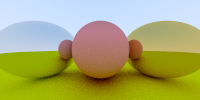
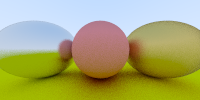
Chapter 8: Metal

diff --git a/Raytracing/main.cpp b/Raytracing/main.cpp
@@ -48,8 +48,8 @@ int main()
 	hitable* list[num_spheres];
 	list[0] = new sphere(vec3( 0.0f,    0.0f, -1.0f),   0.5f, new lambertian(vec3(0.8f, 0.3f, 0.3f)));
 	list[1] = new sphere(vec3( 0.0f, -100.5f, -1.0f), 100.0f, new lambertian(vec3(0.8f, 0.8f, 0.0f)));
-	list[2] = new sphere(vec3( 1.0f,    0.0f, -1.0f),   0.5f,      new metal(vec3(0.8f, 0.6f, 0.2f)));
-	list[3] = new sphere(vec3(-1.0f,    0.0f, -1.0f),   0.5f,      new metal(vec3(0.8f, 0.8f, 0.8f)));
+	list[2] = new sphere(vec3( 1.0f,    0.0f, -1.0f),   0.5f,      new metal(vec3(0.8f, 0.6f, 0.2f), 1.0f));
+	list[3] = new sphere(vec3(-1.0f,    0.0f, -1.0f),   0.5f,      new metal(vec3(0.8f, 0.8f, 0.8f), 0.3f));
 
 	hitable* world = new hitable_list(list, num_spheres);
 	camera cam;

diff --git a/Raytracing/metal.h b/Raytracing/metal.h
@@ -11,15 +11,22 @@ class metal : public material
 {
 private:
 	vec3 albedo;
+	float fuzz;
 
 public:
-	metal(const vec3& a) : albedo(a) {}
+	metal(const vec3& a, float f) : albedo(a)
+	{
+		if (f < 1.0f)
+			fuzz = f;
+		else
+			fuzz = 1.0f;
+	}
 
 	virtual bool scatter(const ray& r_in, const hit_record& rec, vec3& attenuation, ray& scattered) const
 	{
 		vec3 reflected = reflect(unit_vector(r_in.direction()), rec.normal);
-		scattered = ray(rec.p, reflected);
+		scattered = ray(rec.p, reflected + fuzz*random_in_unit_sphere());
 		attenuation = albedo;
-		return dot(scattered.direction(), rec.normal) > 0;
+		return dot(scattered.direction(), rec.normal) > 0.0f;
 	}
 };

diff --git a/Raytracing/sphere.h b/Raytracing/sphere.h
@@ -26,7 +26,7 @@ bool sphere::hit(const ray& r, float t_min, float t_max, hit_record& rec) const
 	float discriminant = b * b - a * c;
 	if (discriminant > 0.0f)
 	{
-		float temp = (-b - sqrt(b * b - a * c)) / a;
+		float temp = (-b - sqrt(discriminant)) / a;
 		if (temp < t_max && temp > t_min)
 		{
 			rec.t = temp;
@@ -35,7 +35,7 @@ bool sphere::hit(const ray& r, float t_min, float t_max, hit_record& rec) const
 			rec.mat_ptr = mat_ptr;
 			return true;
 		}
-		temp = (-b + sqrt(b * b - a * c)) / a;
+		temp = (-b + sqrt(discriminant)) / a;
 		if (temp < t_max && temp > t_min)
 		{
 			rec.t = temp;

diff --git a/Raytracing/lambertian.h b/Raytracing/lambertian.h
@@ -1,17 +1,6 @@
 #pragma once
 
 #include "material.h"
-#include "util.h"
-
-vec3 random_in_unit_sphere()
-{
-	vec3 p;
-	do
-	{
-		p = vec3(random(), random(), random()) - vec3(0.5f, 0.5f, 0.5f);
-	} while (p.squared_length() >= 1.0f);
-	return p;
-}
 
 class lambertian : public material
 {

diff --git a/Raytracing/material.h b/Raytracing/material.h
@@ -1,6 +1,17 @@
 #pragma once
 
 #include "hitable.h"
+#include "util.h"
+
+vec3 random_in_unit_sphere()
+{
+	vec3 p;
+	do
+	{
+		p = vec3(random(), random(), random()) - vec3(0.5f, 0.5f, 0.5f);
+	} while (p.squared_length() >= 1.0f);
+	return p;
+}
 
 class material
 {
